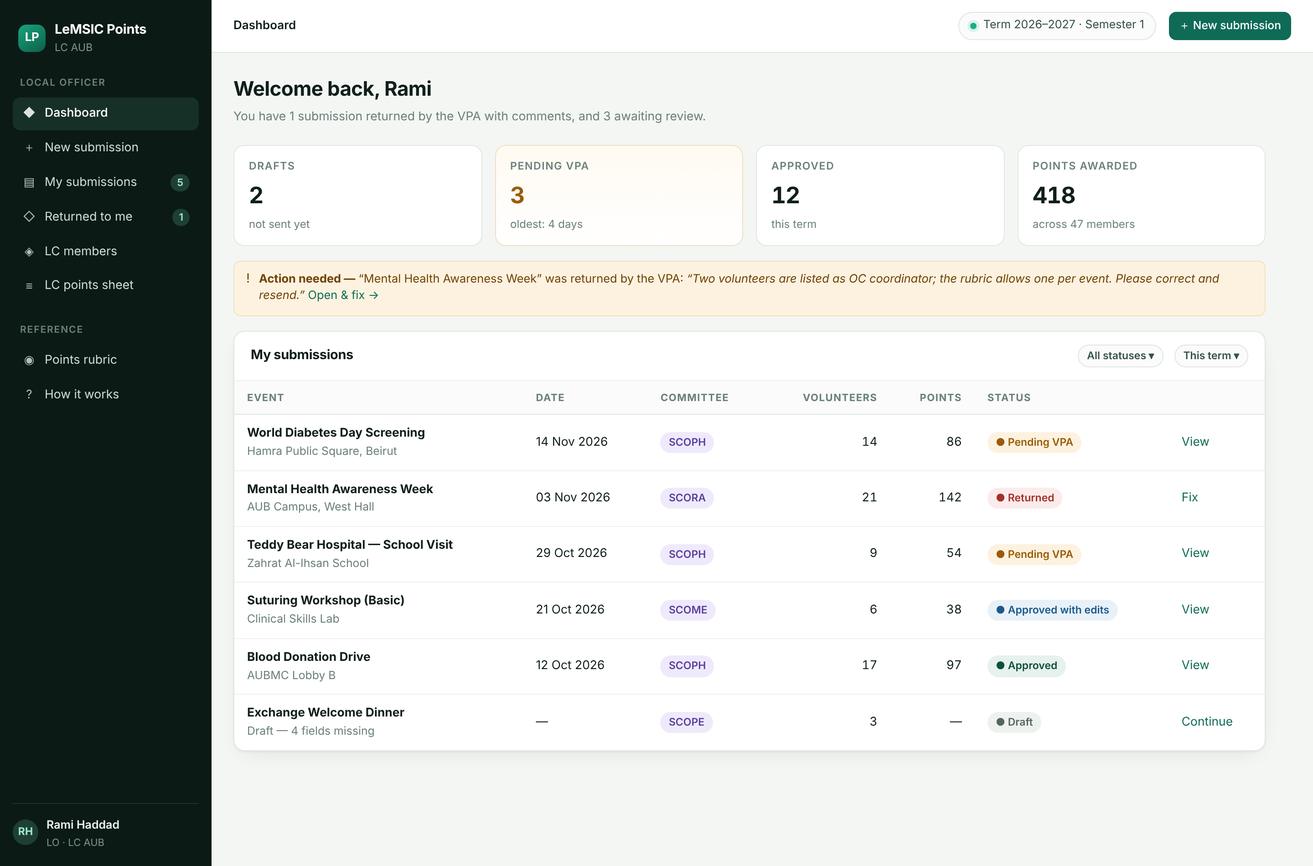
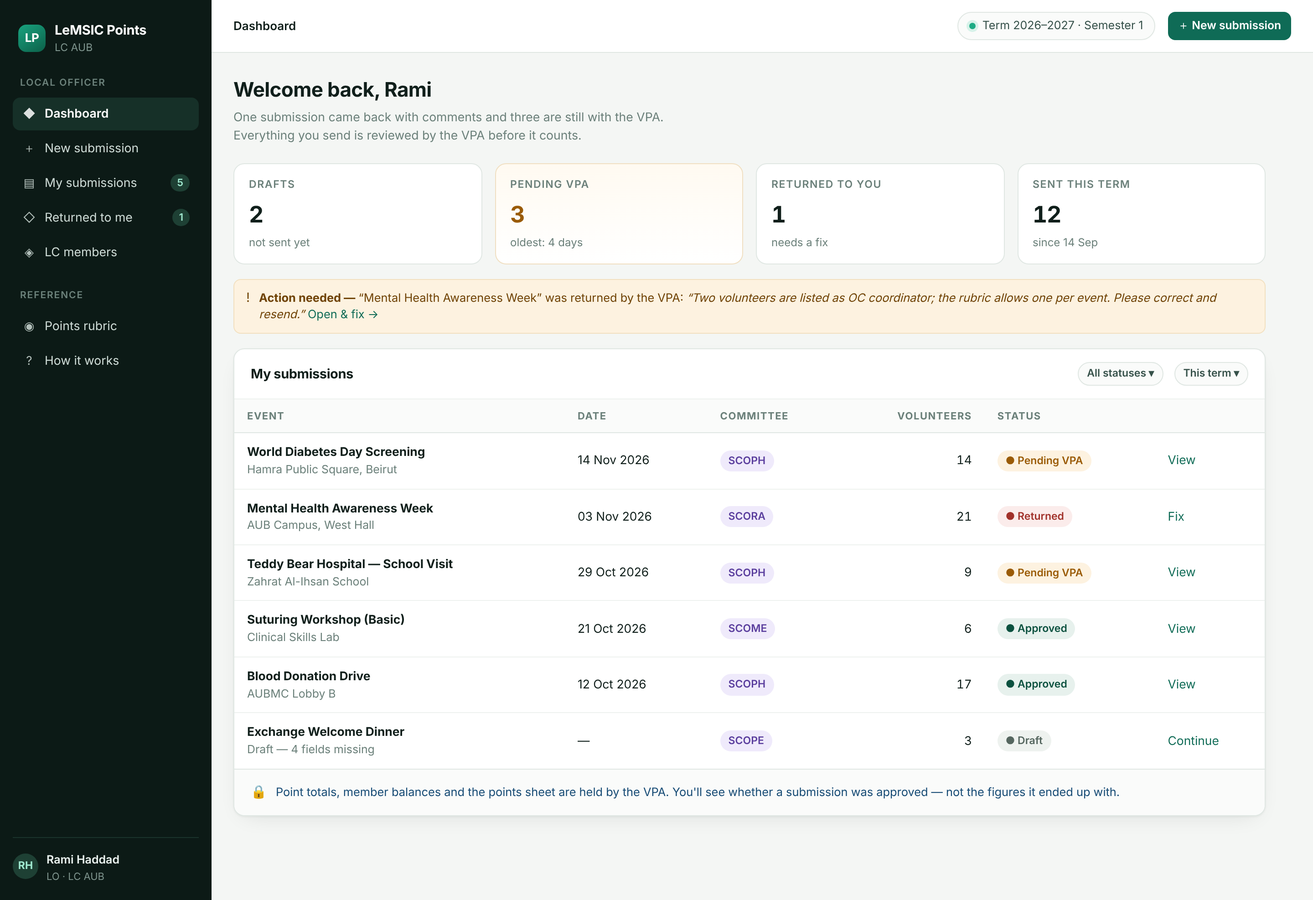
Restrict Local Officers to submitting only
LOs no longer see point totals, member balances, the points sheet or any
approved figures: the points-sheet nav is gone, the dashboard reports
submission state instead of points awarded, the submissions table drops its
points column, and an approved submission reads simply Approved rather than
disclosing that the VPA adjusted it.

Adds a who-sees-what table to the rules screen so the boundary is stated
rather than implied, and turns off the adjustment notice that would have
leaked figures back to LOs.

Claude-Session: https://claude.ai/code/session_012bK2P4cmT6baufXMRm4cyf

diff --git a/mockups/preview.html b/mockups/preview.html
@@ -335,7 +335,6 @@ body::before{content:"";position:fixed;inset:0 0 auto;height:env(safe-area-inset
         <div class="nav"><span class="ic">▤</span>My submissions<span class="count">5</span></div>
         <div class="nav"><span class="ic">◇</span>Returned to me<span class="count">1</span></div>
         <div class="nav"><span class="ic">◈</span>LC members</div>
-        <div class="nav"><span class="ic">≡</span>LC points sheet</div>
       </div>
       <div class="navgroup">
         <div class="navlabel">Reference</div>
@@ -352,28 +351,31 @@ body::before{content:"";position:fixed;inset:0 0 auto;height:env(safe-area-inset
       </div>
       <div class="content">
         <div class="page-head">
-          <div><h1>Welcome back, Rami</h1><p>You have 1 submission returned by the VPA with comments, and 3 awaiting review.</p></div>
+          <div><h1>Welcome back, Rami</h1><p>One submission came back with comments and three are still with the VPA. Everything you send is reviewed by the VPA before it counts.</p></div>
         </div>
         <div class="grid g4" style="margin-bottom:16px">
           <div class="tile"><div class="k">Drafts</div><div class="v">2</div><div class="d">not sent yet</div></div>
           <div class="tile hot"><div class="k">Pending VPA</div><div class="v">3</div><div class="d">oldest: 4 days</div></div>
-          <div class="tile"><div class="k">Approved</div><div class="v">12</div><div class="d">this term</div></div>
-          <div class="tile"><div class="k">Points awarded</div><div class="v">418</div><div class="d">across 47 members</div></div>
+          <div class="tile"><div class="k">Returned to you</div><div class="v">1</div><div class="d">needs a fix</div></div>
+          <div class="tile"><div class="k">Sent this term</div><div class="v">12</div><div class="d">since 14 Sep</div></div>
         </div>
         <div class="note warn" style="margin-bottom:16px"><span class="ic">!</span><span><b>Action needed —</b> “Mental Health Awareness Week” was returned by the VPA: <i>“Two volunteers are listed as OC coordinator; the rubric allows one per event. Please correct and resend.”</i> <a href="#">Open &amp; fix →</a></span></div>
         <div class="card">
           <div class="card-h"><h3>My submissions</h3><div class="spacer"></div><span class="pill flat">All statuses ▾</span><span class="pill flat">This term ▾</span></div>
           <table>
-            <thead><tr><th>Event</th><th>Date</th><th>Committee</th><th class="num">Volunteers</th><th class="num">Points</th><th>Status</th><th></th></tr></thead>
+            <thead><tr><th>Event</th><th>Date</th><th>Committee</th><th class="num">Volunteers</th><th>Status</th><th></th></tr></thead>
             <tbody>
-              <tr><td><b>World Diabetes Day Screening</b><div class="sub">Hamra Public Square, Beirut</div></td><td>14 Nov 2026</td><td><span class="pill tag">SCOPH</span></td><td class="num">14</td><td class="num">86</td><td><span class="pill pend">● Pending VPA</span></td><td><a href="#">View</a></td></tr>
-              <tr><td><b>Mental Health Awareness Week</b><div class="sub">AUB Campus, West Hall</div></td><td>03 Nov 2026</td><td><span class="pill tag">SCORA</span></td><td class="num">21</td><td class="num">142</td><td><span class="pill ret">● Returned</span></td><td><a href="#">Fix</a></td></tr>
-              <tr><td><b>Teddy Bear Hospital — School Visit</b><div class="sub">Zahrat Al-Ihsan School</div></td><td>29 Oct 2026</td><td><span class="pill tag">SCOPH</span></td><td class="num">9</td><td class="num">54</td><td><span class="pill pend">● Pending VPA</span></td><td><a href="#">View</a></td></tr>
-              <tr><td><b>Suturing Workshop (Basic)</b><div class="sub">Clinical Skills Lab</div></td><td>21 Oct 2026</td><td><span class="pill tag">SCOME</span></td><td class="num">6</td><td class="num">38</td><td><span class="pill mod">● Approved with edits</span></td><td><a href="#">View</a></td></tr>
-              <tr><td><b>Blood Donation Drive</b><div class="sub">AUBMC Lobby B</div></td><td>12 Oct 2026</td><td><span class="pill tag">SCOPH</span></td><td class="num">17</td><td class="num">97</td><td><span class="pill ok">● Approved</span></td><td><a href="#">View</a></td></tr>
-              <tr><td><b>Exchange Welcome Dinner</b><div class="sub">Draft — 4 fields missing</div></td><td>—</td><td><span class="pill tag">SCOPE</span></td><td class="num">3</td><td class="num">—</td><td><span class="pill draft">● Draft</span></td><td><a href="#">Continue</a></td></tr>
+              <tr><td><b>World Diabetes Day Screening</b><div class="sub">Hamra Public Square, Beirut</div></td><td>14 Nov 2026</td><td><span class="pill tag">SCOPH</span></td><td class="num">14</td><td><span class="pill pend">● Pending VPA</span></td><td><a href="#">View</a></td></tr>
+              <tr><td><b>Mental Health Awareness Week</b><div class="sub">AUB Campus, West Hall</div></td><td>03 Nov 2026</td><td><span class="pill tag">SCORA</span></td><td class="num">21</td><td><span class="pill ret">● Returned</span></td><td><a href="#">Fix</a></td></tr>
+              <tr><td><b>Teddy Bear Hospital — School Visit</b><div class="sub">Zahrat Al-Ihsan School</div></td><td>29 Oct 2026</td><td><span class="pill tag">SCOPH</span></td><td class="num">9</td><td><span class="pill pend">● Pending VPA</span></td><td><a href="#">View</a></td></tr>
+              <tr><td><b>Suturing Workshop (Basic)</b><div class="sub">Clinical Skills Lab</div></td><td>21 Oct 2026</td><td><span class="pill tag">SCOME</span></td><td class="num">6</td><td><span class="pill ok">● Approved</span></td><td><a href="#">View</a></td></tr>
+              <tr><td><b>Blood Donation Drive</b><div class="sub">AUBMC Lobby B</div></td><td>12 Oct 2026</td><td><span class="pill tag">SCOPH</span></td><td class="num">17</td><td><span class="pill ok">● Approved</span></td><td><a href="#">View</a></td></tr>
+              <tr><td><b>Exchange Welcome Dinner</b><div class="sub">Draft — 4 fields missing</div></td><td>—</td><td><span class="pill tag">SCOPE</span></td><td class="num">3</td><td><span class="pill draft">● Draft</span></td><td><a href="#">Continue</a></td></tr>
             </tbody>
           </table>
+          <div class="pad" style="border-top:1px solid var(--line);background:var(--surface-2);border-radius:0 0 var(--r) var(--r)">
+            <div class="note info" style="border:0;background:transparent;padding:0"><span class="ic">🔒</span><span>Point totals, member balances and the points sheet are held by the VPA. You'll see whether a submission was approved — not the figures it ended up with.</span></div>
+          </div>
         </div>
       </div>
     </div>
@@ -392,7 +394,6 @@ body::before{content:"";position:fixed;inset:0 0 auto;height:env(safe-area-inset
         <div class="nav"><span class="ic">▤</span>My submissions<span class="count">5</span></div>
         <div class="nav"><span class="ic">◇</span>Returned to me<span class="count">1</span></div>
         <div class="nav"><span class="ic">◈</span>LC members</div>
-        <div class="nav"><span class="ic">≡</span>LC points sheet</div>
       </div>
       <div class="side-foot"><div class="avatar">RH</div><div><b>Rami Haddad</b><small>LO · LC AUB</small></div></div>
     </aside>
@@ -460,7 +461,6 @@ body::before{content:"";position:fixed;inset:0 0 auto;height:env(safe-area-inset
         <div class="nav"><span class="ic">▤</span>My submissions<span class="count">5</span></div>
         <div class="nav"><span class="ic">◇</span>Returned to me<span class="count">1</span></div>
         <div class="nav"><span class="ic">◈</span>LC members</div>
-        <div class="nav"><span class="ic">≡</span>LC points sheet</div>
       </div>
       <div class="side-foot"><div class="avatar">RH</div><div><b>Rami Haddad</b><small>LO · LC AUB</small></div></div>
     </aside>
@@ -551,7 +551,6 @@ body::before{content:"";position:fixed;inset:0 0 auto;height:env(safe-area-inset
         <div class="nav"><span class="ic">▤</span>My submissions<span class="count">5</span></div>
         <div class="nav"><span class="ic">◇</span>Returned to me<span class="count">1</span></div>
         <div class="nav"><span class="ic">◈</span>LC members</div>
-        <div class="nav"><span class="ic">≡</span>LC points sheet</div>
       </div>
       <div class="side-foot"><div class="avatar">RH</div><div><b>Rami Haddad</b><small>LO · LC AUB</small></div></div>
     </aside>
@@ -653,8 +652,8 @@ body::before{content:"";position:fixed;inset:0 0 auto;height:env(safe-area-inset
             <tbody>
               <tr><td><span class="sw"></span></td><td><b>Winter Clothing Drive</b><div class="sub">07 Nov 2026 · SCORP</div></td><td>LC USJ</td><td>Elias Rizk</td><td><span class="pill ret">6 days</span></td><td class="num">23</td><td class="num">148</td><td><span class="pill pend">2 over band</span></td><td><a href="#">Review</a></td></tr>
               <tr><td><span class="sw"></span></td><td><b>Hepatitis Awareness Booth</b><div class="sub">09 Nov 2026 · SCOPH</div></td><td>LC LAU</td><td>Dana Ayoub</td><td><span class="pill pend">5 days</span></td><td class="num">11</td><td class="num">64</td><td><span class="pill ret">1 duplicate</span></td><td><a href="#">Review</a></td></tr>
-              <tr><td><span class="sw on"></span></td><td><b>World Diabetes Day Screening</b><div class="sub">14 Nov 2026 · SCOPH</div></td><td>LC AUB</td><td>Rami Haddad</td><td><span class="pill flat">2 days</span></td><td class="num">14</td><td class="num">86</td><td><span class="pill pend">1 over band</span></td><td><a href="#"><b>Review</b></a></td></tr>
-              <tr><td><span class="sw"></span></td><td><b>Teddy Bear Hospital — School Visit</b><div class="sub">29 Oct 2026 · SCOPH</div></td><td>LC AUB</td><td>Rami Haddad</td><td><span class="pill flat">2 days</span></td><td class="num">9</td><td class="num">54</td><td><span class="pill ok">clean</span></td><td><a href="#">Review</a></td></tr>
+              <tr><td><span class="sw on"></span></td><td><b>World Diabetes Day Screening</b><div class="sub">14 Nov 2026 · SCOPH</div></td><td>LC AUB</td><td>Rami Haddad</td><td><span class="pill flat">2 days</span></td><td class="num">14</td><td><span class="pill pend">1 over band</span></td><td><a href="#"><b>Review</b></a></td></tr>
+              <tr><td><span class="sw"></span></td><td><b>Teddy Bear Hospital — School Visit</b><div class="sub">29 Oct 2026 · SCOPH</div></td><td>LC AUB</td><td>Rami Haddad</td><td><span class="pill flat">2 days</span></td><td class="num">9</td><td><span class="pill ok">clean</span></td><td><a href="#">Review</a></td></tr>
               <tr><td><span class="sw"></span></td><td><b>Research Methodology Webinar</b><div class="sub">11 Nov 2026 · SCORE</div></td><td>LC Balamand</td><td>Perla Gemayel</td><td><span class="pill flat">1 day</span></td><td class="num">8</td><td class="num">41</td><td><span class="pill ok">clean</span></td><td><a href="#">Review</a></td></tr>
               <tr><td><span class="sw"></span></td><td><b>Peer Education Training (TOT)</b><div class="sub">12 Nov 2026 · SCORA</div></td><td>LC LU</td><td>Hadi Zein</td><td><span class="pill flat">1 day</span></td><td class="num">19</td><td class="num">131</td><td><span class="pill pend">cap warning</span></td><td><a href="#">Review</a></td></tr>
               <tr><td><span class="sw"></span></td><td><b>Exchange Orientation Day</b><div class="sub">15 Nov 2026 · SCOPE</div></td><td>LC BAU</td><td>Sara Itani</td><td><span class="pill flat">6 hours</span></td><td class="num">12</td><td class="num">88</td><td><span class="pill ok">clean</span></td><td><a href="#">Review</a></td></tr>
@@ -1320,10 +1319,25 @@ body::before{content:"";position:fixed;inset:0 0 auto;height:env(safe-area-inset
               <div class="field"><label>Soft cap per member per month</label><div class="inp sel">30 points</div><div class="hint">Warns the VPA, doesn't block</div></div>
               <div class="field"><label>Max points per event</label><div class="inp sel">No limit</div></div>
               <div style="display:flex;align-items:center;gap:10px"><span class="sw on"></span><div><b style="font-size:13px">Require proof for events over 50 pts</b><div class="hint">Attendance sheet or report</div></div></div>
-              <div style="display:flex;align-items:center;gap:10px"><span class="sw on"></span><div><b style="font-size:13px">Notify LO of every VPA edit</b><div class="hint">Email + in-app, with the reason</div></div></div>
+              <div style="display:flex;align-items:center;gap:10px"><span class="sw"></span><div><b style="font-size:13px">Tell LOs when points are adjusted</b><div class="hint">Off — LOs see only Approved or Returned, never the figures</div></div></div>
               <div style="display:flex;align-items:center;gap:10px"><span class="sw on"></span><div><b style="font-size:13px">Members can see their own points</b><div class="hint">Read-only member login</div></div></div>
               <div style="display:flex;align-items:center;gap:10px"><span class="sw"></span><div><b style="font-size:13px">Public leaderboard link</b><div class="hint">First names + LC only</div></div></div>
             </div></div>
+            <div class="card"><div class="card-h"><h3>Who sees what</h3><div class="spacer"></div><small>roles are fixed</small></div>
+              <table>
+                <thead><tr><th>Can</th><th>LO</th><th>VPA</th><th>Member</th></tr></thead>
+                <tbody>
+                  <tr><td>Submit points</td><td><b>✓</b></td><td><b>✓</b></td><td class="sub">—</td></tr>
+                  <tr><td>Track own submissions</td><td><b>✓</b></td><td><b>✓</b></td><td class="sub">—</td></tr>
+                  <tr><td>Approve &amp; adjust</td><td class="sub">—</td><td><b>✓</b></td><td class="sub">—</td></tr>
+                  <tr><td>See point totals</td><td class="sub">—</td><td><b>✓</b></td><td class="sub">own only</td></tr>
+                  <tr><td>See the points sheet</td><td class="sub">—</td><td><b>✓</b></td><td class="sub">—</td></tr>
+                  <tr><td>See rankings</td><td class="sub">—</td><td><b>✓</b></td><td class="sub">own rank</td></tr>
+                  <tr><td>Member registry</td><td class="sub">names only</td><td><b>✓</b></td><td class="sub">—</td></tr>
+                  <tr><td>Excel workbook</td><td class="sub">—</td><td><b>✓</b></td><td class="sub">—</td></tr>
+                </tbody>
+              </table>
+            </div>
             <div class="card"><div class="card-h"><h3>Term</h3></div><div class="card-b" style="display:flex;flex-direction:column;gap:11px">
               <div class="kv"><span class="k">Active term</span><span class="v">2026–2027 · Semester 1</span></div>
               <div class="kv"><span class="k">Opened</span><span class="v">01 Sep 2026 · 4,106 pts so far</span></div>
@@ -1466,7 +1480,7 @@ sheet.addEventListener("click",function(e){ if(e.target===sheet) sheet.classList
 
 /* make the mock-up click through */
 var NAVMAP={"Dashboard":"lo-dash","New submission":"lo-event","My submissions":"lo-dash","Returned to me":"lo-dash",
- "LC members":"lo-dash","LC points sheet":"ledger","Points rubric":"rubric","How it works":"login",
+ "LC members":"lo-dash","Points rubric":"rubric","How it works":"login",
  "Overview":"vpa-queue","Pending review":"vpa-queue","All submissions":"vpa-queue","Points sheet":"ledger",
  "Members":"by-member","Excel sync":"excel-sync","Rubric & rules":"rubric","Accounts & LCs":"rubric","Audit log":"ledger",
  "My points":"member","My events":"member","Leaderboard":"ledger","My certificate":"member"};

diff --git a/mockups/prototype.html b/mockups/prototype.html
@@ -342,7 +342,6 @@ body::before{content:"";position:fixed;inset:0 0 auto;height:env(safe-area-inset
         <div class="nav"><span class="ic">▤</span>My submissions<span class="count">5</span></div>
         <div class="nav"><span class="ic">◇</span>Returned to me<span class="count">1</span></div>
         <div class="nav"><span class="ic">◈</span>LC members</div>
-        <div class="nav"><span class="ic">≡</span>LC points sheet</div>
       </div>
       <div class="navgroup">
         <div class="navlabel">Reference</div>
@@ -359,28 +358,31 @@ body::before{content:"";position:fixed;inset:0 0 auto;height:env(safe-area-inset
       </div>
       <div class="content">
         <div class="page-head">
-          <div><h1>Welcome back, Rami</h1><p>You have 1 submission returned by the VPA with comments, and 3 awaiting review.</p></div>
+          <div><h1>Welcome back, Rami</h1><p>One submission came back with comments and three are still with the VPA. Everything you send is reviewed by the VPA before it counts.</p></div>
         </div>
         <div class="grid g4" style="margin-bottom:16px">
           <div class="tile"><div class="k">Drafts</div><div class="v">2</div><div class="d">not sent yet</div></div>
           <div class="tile hot"><div class="k">Pending VPA</div><div class="v">3</div><div class="d">oldest: 4 days</div></div>
-          <div class="tile"><div class="k">Approved</div><div class="v">12</div><div class="d">this term</div></div>
-          <div class="tile"><div class="k">Points awarded</div><div class="v">418</div><div class="d">across 47 members</div></div>
+          <div class="tile"><div class="k">Returned to you</div><div class="v">1</div><div class="d">needs a fix</div></div>
+          <div class="tile"><div class="k">Sent this term</div><div class="v">12</div><div class="d">since 14 Sep</div></div>
         </div>
         <div class="note warn" style="margin-bottom:16px"><span class="ic">!</span><span><b>Action needed —</b> “Mental Health Awareness Week” was returned by the VPA: <i>“Two volunteers are listed as OC coordinator; the rubric allows one per event. Please correct and resend.”</i> <a href="#">Open &amp; fix →</a></span></div>
         <div class="card">
           <div class="card-h"><h3>My submissions</h3><div class="spacer"></div><span class="pill flat">All statuses ▾</span><span class="pill flat">This term ▾</span></div>
           <table>
-            <thead><tr><th>Event</th><th>Date</th><th>Committee</th><th class="num">Volunteers</th><th class="num">Points</th><th>Status</th><th></th></tr></thead>
+            <thead><tr><th>Event</th><th>Date</th><th>Committee</th><th class="num">Volunteers</th><th>Status</th><th></th></tr></thead>
             <tbody>
-              <tr><td><b>World Diabetes Day Screening</b><div class="sub">Hamra Public Square, Beirut</div></td><td>14 Nov 2026</td><td><span class="pill tag">SCOPH</span></td><td class="num">14</td><td class="num">86</td><td><span class="pill pend">● Pending VPA</span></td><td><a href="#">View</a></td></tr>
-              <tr><td><b>Mental Health Awareness Week</b><div class="sub">AUB Campus, West Hall</div></td><td>03 Nov 2026</td><td><span class="pill tag">SCORA</span></td><td class="num">21</td><td class="num">142</td><td><span class="pill ret">● Returned</span></td><td><a href="#">Fix</a></td></tr>
-              <tr><td><b>Teddy Bear Hospital — School Visit</b><div class="sub">Zahrat Al-Ihsan School</div></td><td>29 Oct 2026</td><td><span class="pill tag">SCOPH</span></td><td class="num">9</td><td class="num">54</td><td><span class="pill pend">● Pending VPA</span></td><td><a href="#">View</a></td></tr>
-              <tr><td><b>Suturing Workshop (Basic)</b><div class="sub">Clinical Skills Lab</div></td><td>21 Oct 2026</td><td><span class="pill tag">SCOME</span></td><td class="num">6</td><td class="num">38</td><td><span class="pill mod">● Approved with edits</span></td><td><a href="#">View</a></td></tr>
-              <tr><td><b>Blood Donation Drive</b><div class="sub">AUBMC Lobby B</div></td><td>12 Oct 2026</td><td><span class="pill tag">SCOPH</span></td><td class="num">17</td><td class="num">97</td><td><span class="pill ok">● Approved</span></td><td><a href="#">View</a></td></tr>
-              <tr><td><b>Exchange Welcome Dinner</b><div class="sub">Draft — 4 fields missing</div></td><td>—</td><td><span class="pill tag">SCOPE</span></td><td class="num">3</td><td class="num">—</td><td><span class="pill draft">● Draft</span></td><td><a href="#">Continue</a></td></tr>
+              <tr><td><b>World Diabetes Day Screening</b><div class="sub">Hamra Public Square, Beirut</div></td><td>14 Nov 2026</td><td><span class="pill tag">SCOPH</span></td><td class="num">14</td><td><span class="pill pend">● Pending VPA</span></td><td><a href="#">View</a></td></tr>
+              <tr><td><b>Mental Health Awareness Week</b><div class="sub">AUB Campus, West Hall</div></td><td>03 Nov 2026</td><td><span class="pill tag">SCORA</span></td><td class="num">21</td><td><span class="pill ret">● Returned</span></td><td><a href="#">Fix</a></td></tr>
+              <tr><td><b>Teddy Bear Hospital — School Visit</b><div class="sub">Zahrat Al-Ihsan School</div></td><td>29 Oct 2026</td><td><span class="pill tag">SCOPH</span></td><td class="num">9</td><td><span class="pill pend">● Pending VPA</span></td><td><a href="#">View</a></td></tr>
+              <tr><td><b>Suturing Workshop (Basic)</b><div class="sub">Clinical Skills Lab</div></td><td>21 Oct 2026</td><td><span class="pill tag">SCOME</span></td><td class="num">6</td><td><span class="pill ok">● Approved</span></td><td><a href="#">View</a></td></tr>
+              <tr><td><b>Blood Donation Drive</b><div class="sub">AUBMC Lobby B</div></td><td>12 Oct 2026</td><td><span class="pill tag">SCOPH</span></td><td class="num">17</td><td><span class="pill ok">● Approved</span></td><td><a href="#">View</a></td></tr>
+              <tr><td><b>Exchange Welcome Dinner</b><div class="sub">Draft — 4 fields missing</div></td><td>—</td><td><span class="pill tag">SCOPE</span></td><td class="num">3</td><td><span class="pill draft">● Draft</span></td><td><a href="#">Continue</a></td></tr>
             </tbody>
           </table>
+          <div class="pad" style="border-top:1px solid var(--line);background:var(--surface-2);border-radius:0 0 var(--r) var(--r)">
+            <div class="note info" style="border:0;background:transparent;padding:0"><span class="ic">🔒</span><span>Point totals, member balances and the points sheet are held by the VPA. You'll see whether a submission was approved — not the figures it ended up with.</span></div>
+          </div>
         </div>
       </div>
     </div>
@@ -399,7 +401,6 @@ body::before{content:"";position:fixed;inset:0 0 auto;height:env(safe-area-inset
         <div class="nav"><span class="ic">▤</span>My submissions<span class="count">5</span></div>
         <div class="nav"><span class="ic">◇</span>Returned to me<span class="count">1</span></div>
         <div class="nav"><span class="ic">◈</span>LC members</div>
-        <div class="nav"><span class="ic">≡</span>LC points sheet</div>
       </div>
       <div class="side-foot"><div class="avatar">RH</div><div><b>Rami Haddad</b><small>LO · LC AUB</small></div></div>
     </aside>
@@ -467,7 +468,6 @@ body::before{content:"";position:fixed;inset:0 0 auto;height:env(safe-area-inset
         <div class="nav"><span class="ic">▤</span>My submissions<span class="count">5</span></div>
         <div class="nav"><span class="ic">◇</span>Returned to me<span class="count">1</span></div>
         <div class="nav"><span class="ic">◈</span>LC members</div>
-        <div class="nav"><span class="ic">≡</span>LC points sheet</div>
       </div>
       <div class="side-foot"><div class="avatar">RH</div><div><b>Rami Haddad</b><small>LO · LC AUB</small></div></div>
     </aside>
@@ -558,7 +558,6 @@ body::before{content:"";position:fixed;inset:0 0 auto;height:env(safe-area-inset
         <div class="nav"><span class="ic">▤</span>My submissions<span class="count">5</span></div>
         <div class="nav"><span class="ic">◇</span>Returned to me<span class="count">1</span></div>
         <div class="nav"><span class="ic">◈</span>LC members</div>
-        <div class="nav"><span class="ic">≡</span>LC points sheet</div>
       </div>
       <div class="side-foot"><div class="avatar">RH</div><div><b>Rami Haddad</b><small>LO · LC AUB</small></div></div>
     </aside>
@@ -660,8 +659,8 @@ body::before{content:"";position:fixed;inset:0 0 auto;height:env(safe-area-inset
             <tbody>
               <tr><td><span class="sw"></span></td><td><b>Winter Clothing Drive</b><div class="sub">07 Nov 2026 · SCORP</div></td><td>LC USJ</td><td>Elias Rizk</td><td><span class="pill ret">6 days</span></td><td class="num">23</td><td class="num">148</td><td><span class="pill pend">2 over band</span></td><td><a href="#">Review</a></td></tr>
               <tr><td><span class="sw"></span></td><td><b>Hepatitis Awareness Booth</b><div class="sub">09 Nov 2026 · SCOPH</div></td><td>LC LAU</td><td>Dana Ayoub</td><td><span class="pill pend">5 days</span></td><td class="num">11</td><td class="num">64</td><td><span class="pill ret">1 duplicate</span></td><td><a href="#">Review</a></td></tr>
-              <tr><td><span class="sw on"></span></td><td><b>World Diabetes Day Screening</b><div class="sub">14 Nov 2026 · SCOPH</div></td><td>LC AUB</td><td>Rami Haddad</td><td><span class="pill flat">2 days</span></td><td class="num">14</td><td class="num">86</td><td><span class="pill pend">1 over band</span></td><td><a href="#"><b>Review</b></a></td></tr>
-              <tr><td><span class="sw"></span></td><td><b>Teddy Bear Hospital — School Visit</b><div class="sub">29 Oct 2026 · SCOPH</div></td><td>LC AUB</td><td>Rami Haddad</td><td><span class="pill flat">2 days</span></td><td class="num">9</td><td class="num">54</td><td><span class="pill ok">clean</span></td><td><a href="#">Review</a></td></tr>
+              <tr><td><span class="sw on"></span></td><td><b>World Diabetes Day Screening</b><div class="sub">14 Nov 2026 · SCOPH</div></td><td>LC AUB</td><td>Rami Haddad</td><td><span class="pill flat">2 days</span></td><td class="num">14</td><td><span class="pill pend">1 over band</span></td><td><a href="#"><b>Review</b></a></td></tr>
+              <tr><td><span class="sw"></span></td><td><b>Teddy Bear Hospital — School Visit</b><div class="sub">29 Oct 2026 · SCOPH</div></td><td>LC AUB</td><td>Rami Haddad</td><td><span class="pill flat">2 days</span></td><td class="num">9</td><td><span class="pill ok">clean</span></td><td><a href="#">Review</a></td></tr>
               <tr><td><span class="sw"></span></td><td><b>Research Methodology Webinar</b><div class="sub">11 Nov 2026 · SCORE</div></td><td>LC Balamand</td><td>Perla Gemayel</td><td><span class="pill flat">1 day</span></td><td class="num">8</td><td class="num">41</td><td><span class="pill ok">clean</span></td><td><a href="#">Review</a></td></tr>
               <tr><td><span class="sw"></span></td><td><b>Peer Education Training (TOT)</b><div class="sub">12 Nov 2026 · SCORA</div></td><td>LC LU</td><td>Hadi Zein</td><td><span class="pill flat">1 day</span></td><td class="num">19</td><td class="num">131</td><td><span class="pill pend">cap warning</span></td><td><a href="#">Review</a></td></tr>
               <tr><td><span class="sw"></span></td><td><b>Exchange Orientation Day</b><div class="sub">15 Nov 2026 · SCOPE</div></td><td>LC BAU</td><td>Sara Itani</td><td><span class="pill flat">6 hours</span></td><td class="num">12</td><td class="num">88</td><td><span class="pill ok">clean</span></td><td><a href="#">Review</a></td></tr>
@@ -1327,10 +1326,25 @@ body::before{content:"";position:fixed;inset:0 0 auto;height:env(safe-area-inset
               <div class="field"><label>Soft cap per member per month</label><div class="inp sel">30 points</div><div class="hint">Warns the VPA, doesn't block</div></div>
               <div class="field"><label>Max points per event</label><div class="inp sel">No limit</div></div>
               <div style="display:flex;align-items:center;gap:10px"><span class="sw on"></span><div><b style="font-size:13px">Require proof for events over 50 pts</b><div class="hint">Attendance sheet or report</div></div></div>
-              <div style="display:flex;align-items:center;gap:10px"><span class="sw on"></span><div><b style="font-size:13px">Notify LO of every VPA edit</b><div class="hint">Email + in-app, with the reason</div></div></div>
+              <div style="display:flex;align-items:center;gap:10px"><span class="sw"></span><div><b style="font-size:13px">Tell LOs when points are adjusted</b><div class="hint">Off — LOs see only Approved or Returned, never the figures</div></div></div>
               <div style="display:flex;align-items:center;gap:10px"><span class="sw on"></span><div><b style="font-size:13px">Members can see their own points</b><div class="hint">Read-only member login</div></div></div>
               <div style="display:flex;align-items:center;gap:10px"><span class="sw"></span><div><b style="font-size:13px">Public leaderboard link</b><div class="hint">First names + LC only</div></div></div>
             </div></div>
+            <div class="card"><div class="card-h"><h3>Who sees what</h3><div class="spacer"></div><small>roles are fixed</small></div>
+              <table>
+                <thead><tr><th>Can</th><th>LO</th><th>VPA</th><th>Member</th></tr></thead>
+                <tbody>
+                  <tr><td>Submit points</td><td><b>✓</b></td><td><b>✓</b></td><td class="sub">—</td></tr>
+                  <tr><td>Track own submissions</td><td><b>✓</b></td><td><b>✓</b></td><td class="sub">—</td></tr>
+                  <tr><td>Approve &amp; adjust</td><td class="sub">—</td><td><b>✓</b></td><td class="sub">—</td></tr>
+                  <tr><td>See point totals</td><td class="sub">—</td><td><b>✓</b></td><td class="sub">own only</td></tr>
+                  <tr><td>See the points sheet</td><td class="sub">—</td><td><b>✓</b></td><td class="sub">—</td></tr>
+                  <tr><td>See rankings</td><td class="sub">—</td><td><b>✓</b></td><td class="sub">own rank</td></tr>
+                  <tr><td>Member registry</td><td class="sub">names only</td><td><b>✓</b></td><td class="sub">—</td></tr>
+                  <tr><td>Excel workbook</td><td class="sub">—</td><td><b>✓</b></td><td class="sub">—</td></tr>
+                </tbody>
+              </table>
+            </div>
             <div class="card"><div class="card-h"><h3>Term</h3></div><div class="card-b" style="display:flex;flex-direction:column;gap:11px">
               <div class="kv"><span class="k">Active term</span><span class="v">2026–2027 · Semester 1</span></div>
               <div class="kv"><span class="k">Opened</span><span class="v">01 Sep 2026 · 4,106 pts so far</span></div>
@@ -1474,7 +1488,7 @@ sheet.addEventListener("click",function(e){ if(e.target===sheet) sheet.classList
 
 /* make the mock-up click through */
 var NAVMAP={"Dashboard":"lo-dash","New submission":"lo-event","My submissions":"lo-dash","Returned to me":"lo-dash",
- "LC members":"lo-dash","LC points sheet":"ledger","Points rubric":"rubric","How it works":"login",
+ "LC members":"lo-dash","Points rubric":"rubric","How it works":"login",
  "Overview":"vpa-queue","Pending review":"vpa-queue","All submissions":"vpa-queue","Points sheet":"ledger",
  "Members":"by-member","Excel sync":"excel-sync","Rubric & rules":"rubric","Accounts & LCs":"rubric","Audit log":"ledger",
  "My points":"member","My events":"member","Leaderboard":"ledger","My certificate":"member"};
